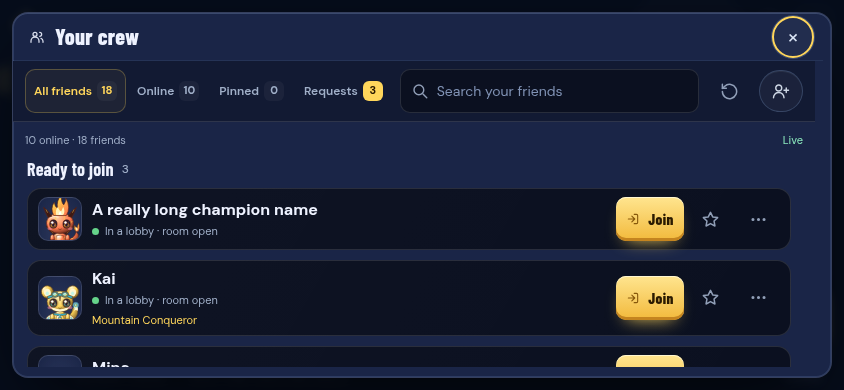
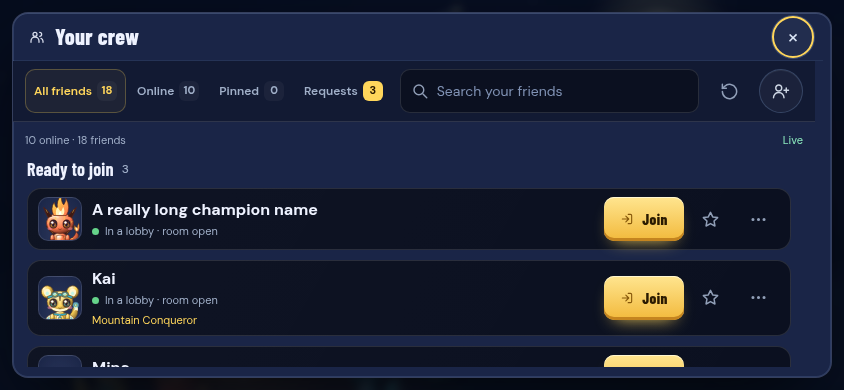
Polish Friends spacing and action alignment

diff --git a/apps/client/src/friends.css b/apps/client/src/friends.css
@@ -38,8 +38,8 @@ dialog:has(.friends-hub) .dialog-heading {
   gap: 6px;
   min-width: 0;
 }
-.friends-hub button,
-.friends-hub summary {
+#dialog .friends-hub button,
+#dialog .friends-hub summary {
   min-height: 44px;
   margin: 0;
 }
@@ -265,7 +265,10 @@ dialog:has(.friends-hub) .dialog-heading {
   gap: 4px;
 }
 .friends-hub .friend-actions > :is(.primary, .secondary) {
-  min-width: 68px;
+  width: 80px;
+  min-width: 80px;
+  flex: none;
+  justify-content: center;
   padding: 8px 10px;
   border-radius: 10px;
   font-size: 15px;
@@ -465,7 +468,7 @@ dialog:has(.friends-hub) .dialog-heading {
   outline: 2px solid var(--accent);
   outline-offset: -3px;
 }
-@media (max-width: 1199px) {
+@media (max-width: 1279px) {
   .friends-hub .friend-list {
     grid-template-columns: minmax(0, 1fr);
   }
@@ -638,7 +641,7 @@ dialog:has(.friends-hub) .dialog-heading {
     background: var(--bg-1);
   }
 }
-@media (min-width: 1200px) and (min-height: 601px) {
+@media (min-width: 1280px) and (min-height: 601px) {
   .friends-hub .friend-card .friend-name {
     align-self: start;
   }

diff --git a/docs/redesign-plan.md b/docs/redesign-plan.md
@@ -9,6 +9,7 @@ Goal: make Element Arena look like a current hero-brawler (Brawl Stars, Pokémon
 - Keep every existing element `id` and every class/attribute that `tests/` or TypeScript code queries. Search `tests/` and `apps/client/src` for a selector before renaming it. Add new classes rather than renaming old ones when unsure.
 - Keep all features reachable: nothing gets deleted from the UI, only restyled or moved.
 - For every UI change, double-check spacing, alignment and visual balance in the rendered screen. Scale avatars and text to the space available; avoid tiny content inside oversized cards. Review both desktop and landscape phones, including safe areas, and check long names and selected states for clipping or overlap before calling the change finished.
+- Verify matching avatar/text start lines, aligned icon-label pairs and consistent widths for equivalent actions. Buttons need at least 44px touch targets. Review empty states, long names, populated lists and breakpoint boundaries in the browser before finishing.
 - Must keep working on: desktop (mouse + keyboard), controller, phone in landscape (PWA, safe-area insets, `rotate-gate`), and touch controls.
 - Respect `prefers-reduced-motion`: every new animation needs a reduced-motion fallback.
 - After each phase: `npm run typecheck`, `npm test`, `npm run format:check` must pass, and the game must run with `npm run dev` (open `http://localhost:5173`).

diff --git a/docs/friends-hub.md b/docs/friends-hub.md
@@ -16,7 +16,9 @@ keyboard focus survive background presence updates. An unchanged response keeps
 the current DOM. Out-of-order responses are ignored, a failed refresh retains the
 last good list, and closing or replacing the screen stops its polling and listeners.
 
-Desktop uses a scrollable crew list and a separate add/share panel. Landscape
+Desktop uses a scrollable crew list and a separate add/share panel. Two columns
+start at 1280px; smaller windows keep wider cards in one column. Join and Watch
+share an action width, and every button has at least a 44px touch target. Landscape
 phones keep the filters and search fixed and open Add friend as a side panel with
 a pinned close button. The Requests filter replaces the larger request preview on
 compact screens. Controller directions and confirm use the existing menu controls;
